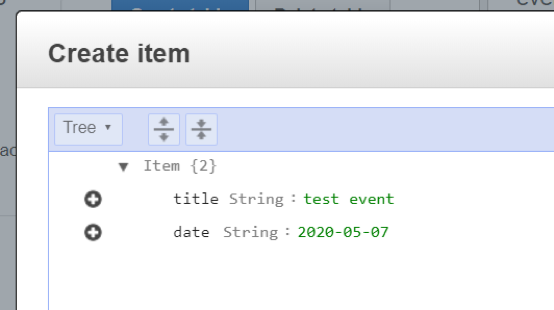
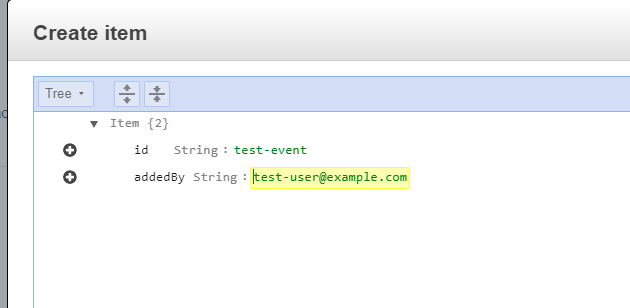
Se incluye detalle lab01- DynamoDB

diff --git a/lab-01/README.md b/lab-01/README.md
@@ -12,22 +12,39 @@ Para crearla seguiremos los siguientes pasos:
 
 > <mark>IMPORTANTE</mark>. Hay que verificar que te encuentras en la región correcta. Cada uno de los servicios que se creen en los laboratorios (Cognito, API Gateway, Lambda y DynamoDB) deben pertenecer a la misma región. Para tener más información acerca de las regiones puedes acceder a este [enlace](https://docs.aws.amazon.com/es_es/AWSEC2/latest/UserGuide/using-regions-availability-zones.html). Para la elaboración de los laboratorios os sugerimos utilizar Irlanda.
 
+<p align="center">
+    <img src="resources/Picture3.png"/>    
+</p>
+
 1. Seleccionamos “Create table”.
 2. Introducimos:
-   * Nombre: “events”.
+   * Nombre: “events_XXXX”. Siendo XXXX un identificador para nuestra propia tabla. Hay que tener en cuenta que todos los asistentes compartimos un mismo servicio por lo que los identificadores deberán ser únicos para hacer uso de nuestros servicios proprios.
    * Primary Key. Estableceremos los campos que la forman, en nuestro caso id:
      * Partition key: id (string).
-  3. En Table settings, quitamos la opción default settings, y ponemos la siguiente configuración:
-      * En la sección Secondary indexes, hacemos click en add index:
-        * En partition key, ponemos addedBy y type String.
-        *  En index-name lo dejamos como está.
-        *  En Projected attributes, ponemos ALL.
-        *  Finalmente, hacemos click en add index.
-     *  En la sección Read/Write capacity mode, lo dejamos en provisionado.
-     *  En la sección Auto Scaling, quitamos las opciones Read Capacity y Write Capacity.
-     *  En la sección Provisioned capacity, lo dejamos todo en 1.
-     *  En la sección Encryption At Rest, lo dejamos en Default.
-4. Pulsamos Create, llevará en torno a 15 segundos la creación de la tabla. Una vez creada podremos acceder a todos sus detalles en la sección “tables” del servicio “DynamoDB”.
+<p align="center">
+    <img src="resources/Picture4.png"/>
+</p>  
+3. En Table settings, quitamos la opción default settings, y ponemos la siguiente configuración:
+   * En la sección Secondary indexes, hacemos click en add index:
+     * En partition key, ponemos addedBy y type String.
+     *  En index-name lo dejamos como está.
+     *  En Projected attributes, ponemos ALL.
+     *  Finalmente, hacemos click en add index.
+<p align="center">
+    <img src="resources/Picture5.png"/>
+</p>    
+       *  En la sección Read/Write capacity mode, lo dejamos en provisionado.
+       *  En la sección Auto Scaling, quitamos las opciones Read Capacity y Write Capacity.
+       *  En la sección Provisioned capacity, lo dejamos todo en 1.
+       *  En la sección Encryption At Rest, lo dejamos en Default.
+<p align="center">
+    <img src="resources/Picture6.png"/>
+</p>          
+       
+4. Pulsamos Create, llevará en torno a 15 segundos la creación de la tabla. Una vez creada podremos acceder a todos sus detalles haciendo clic sobre el botón "Continue to table" o en la sección “tables” del servicio “DynamoDB”.
+<p align="center">
+    <img src="resources/Picture7.png"/>
+</p>                                  
 5. En el panel de control de la tabla pulsamos la pestaña “ítems” y a continuación “create ítem” para crear nuestro primer evento.
 6. En el dialogo introduciremos los datos de nuestro primer evento:
 
@@ -35,22 +52,30 @@ Para crearla seguiremos los siguientes pasos:
     <img src="resources/Picture2.png"/>
 </p>
 
-7. A continuación, introduciremos el resto de los datos. Pulsando el “+” adyacente a “date” seleccionaremos “Append” y “String” indicando que queremos introducir en el ítem un dato de tipo cadena. Los ítems en las tablas de DynamoDB no tienen que cumplir una estructura obligatoria más allá de los que forman la primary key. De esta manera incorporaremos:
+7. A continuación, introduciremos el resto de los datos. Pulsando el “+” adyacente a “addedBy” seleccionaremos “Append” y “String” indicando que queremos introducir en el ítem un dato de tipo cadena. Los ítems en las tablas de DynamoDB no tienen que cumplir una estructura obligatoria más allá de los que forman la primary key. De esta manera incorporaremos:
+<p align="center">
+    <img src="resources/Picture8.png"/>
+</p>
    * Key: location – Value: Málaga.
    * Key: description – Value: Lorem Ipsum is simply dummy text of the printing and type setting industry. Lorem Ipsum has been the industry's standard dummy.
-   * Key: addedBy– Value: test-user@example.com.
+   * Key: date – Value: "2020-05-06"
+<p align="center">
+    <img src="resources/Picture9.png"/>
+</p>
   
    El item debe ser similar al siguiente json (pulsar en el botón Tree y elegir Text):
 
       ```json
       {
-      "addedBy": "prueba@gmail.com",
-      "date": "1997-01-01",
-      "description": "dfnsbfiusduigsf",
-      "id": "3a64b9fc-bac4-47cd-a591-1813f404475e",
-      "location": "Barcelona",
-      "title": "Hola"
+        "id": "test-event",
+        "addedBy": "test-user@example.com",
+        "location": "Málaga",
+        "description": "Lorem Ipsum is simply dummy text of the printing and type setting industry. Lorem Ipsum has been the industry's standard dummy.",
+        "date": "2020-05-06"
       }
       ```
 
-8. Pulsamos guardar. Hemos creado así el primer evento.
+8. Pulsamos Save. Hemos creado así el primer evento.
+<p align="center">
+    <img src="resources/Picture10.png"/>
+</p>
